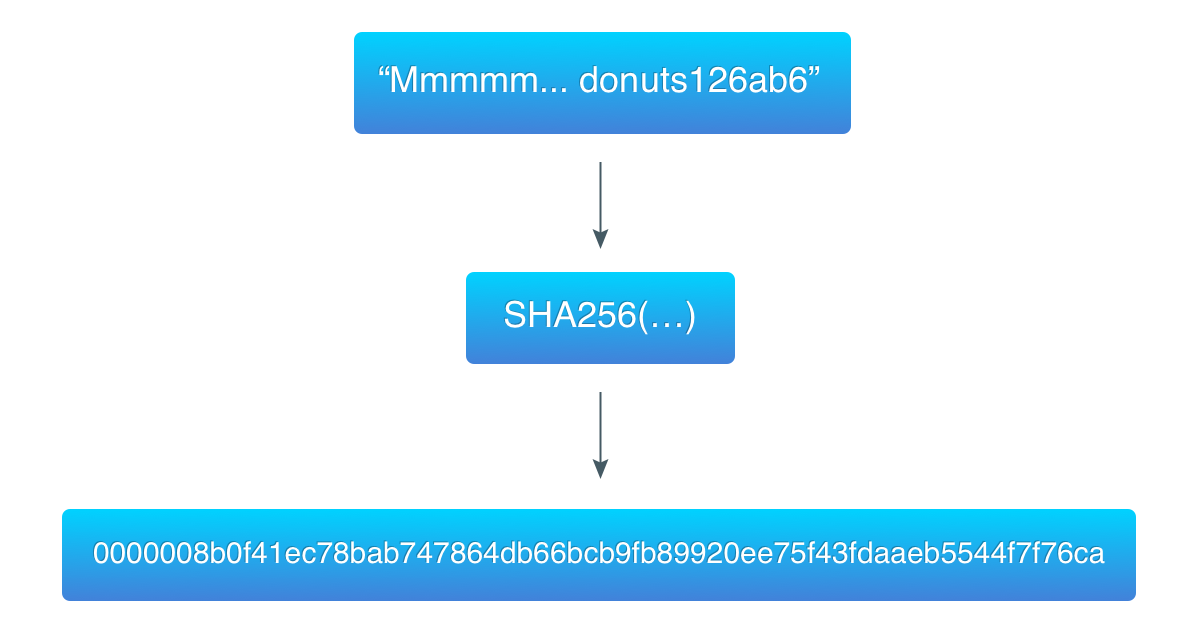
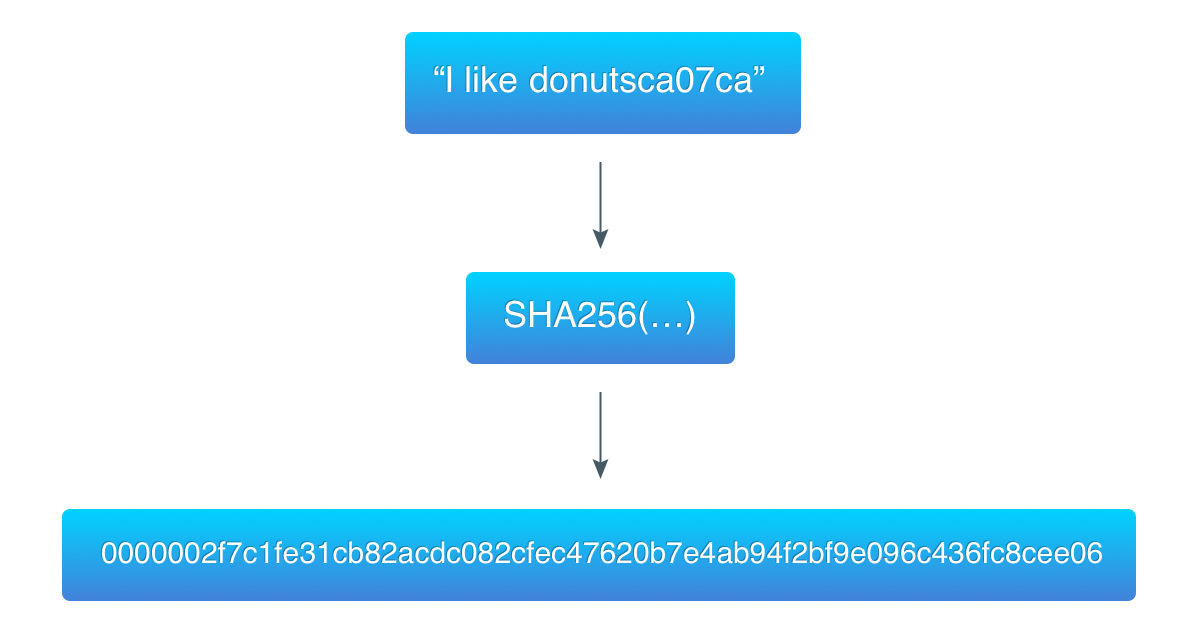
Fixes of the latest draft

Changed region(s): [[0.0617, 0.8485, 0.925, 0.9091], [0.2775, 0.0303, 0.7092, 0.2121]]

diff --git a/content/posts/building-blockchain-in-go-part-2.md b/content/posts/building-blockchain-in-go-part-2.md
@@ -30,7 +30,7 @@ Hashing is a process of obtaining a hash for specified data. A hash is a unique 
 
 ![Hashing example](/images/hashing-example.png)
 
-Hashing functions are widely used to check the consistency of data. Some software providers publish checksums in addition to software package. After downloading a file you can feed it to a hashing function and compare produced hash with the one provided by the software developer.
+Hashing functions are widely used to check the consistency of data. Some software providers publish checksums in addition to a software package. After downloading a file you can feed it to a hashing function and compare produced hash with the one provided by the software developer.
 
 In blockchain, hashing is used to guarantee the consistency of a block. The input data for a hashing algorithm contains the hash of the previous block, thus making it impossible (or, at least, quite difficult) to modify a block in the chain: one has to recalculate its hash and hashes of all the blocks after it.
 
@@ -50,11 +50,11 @@ Thus, this is a brute force algorithm: you change the counter, calculate a new h
 
 Now let's look closer at the requirements a hash has to meet. In the original Hashcash implementation, the requirement sounds like "first 20 bits of a hash must be zeros". In Bitcoin, the requirement is adjusted from time to time, because, by design, a block must be generated every 10 minutes, despite computation power increasing with time and more and more miners joining the network.
 
-To demonstrate this algorithm, I took the data from the previous example ("Mmmmm... donuts") and found a hash that starts with 3 zero-bytes:
+To demonstrate this algorithm, I took the data from the previous example ("I like donuts") and found a hash that starts with 3 zero-bytes:
 
 ![Hashcash example](/images/hashcash-example.png)
 
-`126ab6` is the hexadecimal value of the counter, which is 1206966 in decimal system.
+`ca07ca` is the hexadecimal value of the counter, which is 13240266 in the decimal system.
 
 ## Implementation
 Ok, we're done with the theory, let's write code! First, let's define the difficulty of mining:
@@ -98,11 +98,11 @@ And it occupies 29 bytes in memory. And here's its visual comparison with the ha
[1 lines of base64/hex data omitted]
 ```
 
-The first hash (calculated on "Mmmmm... donuts") is bigger than the target, thus it's not a valid proof of work. The second hash (calculated on "Mmmmm... donuts126ab6") is smaller than the target, thus it's a valid proof.
+The first hash (calculated on "I like donuts") is bigger than the target, thus it's not a valid proof of work. The second hash (calculated on "I like donutsca07ca") is smaller than the target, thus it's a valid proof.
 
 You can think of a target as the upper boundary of a range: if a number (a hash) is lower than the boundary, it's valid, and vice versa. Lowering the boundary will result in fewer valid numbers, and thus, more difficult work required to find a valid one.
 
-Now, we need data to hash. Let's prepare it:
+Now, we need the data to hash. Let's prepare it:
 
 ```go
 func (pow *ProofOfWork) prepareData(nonce int) []byte {
